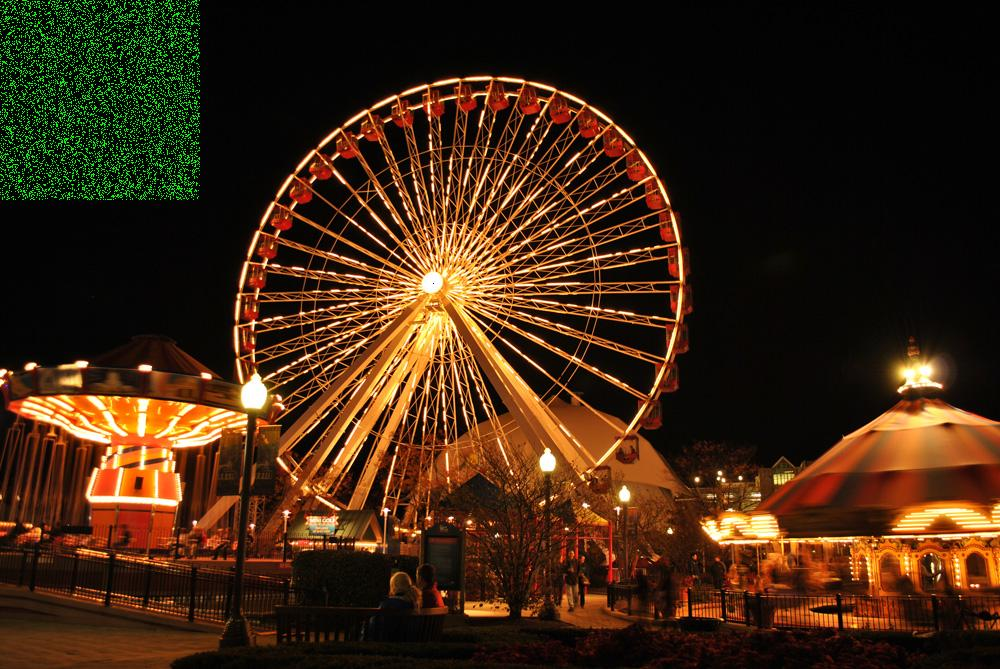
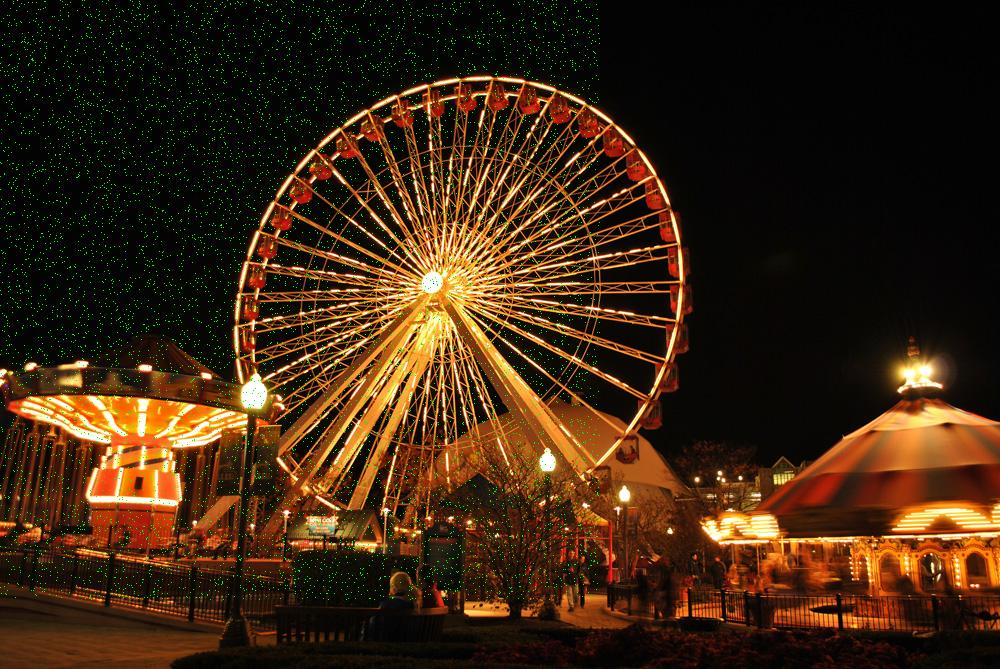
finished color labs

Changed region(s): [[0.0, 0.0897, 0.62, 0.8969], [0.0, 0.0, 0.217, 0.299]]

diff --git a/ColorLabs17/ColorLab.java b/ColorLabs17/ColorLab.java
@@ -1,0 +1,104 @@
+
+/**
+ * Write a description of class ColorLab here.
+ *
+ * @author (your name)
+ * @version (a version number or a date)
+ */
+import java.awt.*; //imports color class in awt library
+import java.util.*;
+import java.util.List; // resolves problem with java.awt.List and java.util.List
+//give range to change an object
+//either lighten or darken
+public class ColorLab
+{
+    public static void main(String[] args){
+        Picture p = new Picture("images\\beach.jpg");
+        Picture p1 = new Picture("images\\beach.jpg");
+        Picture p2 = new Picture("images\\beach.jpg");
+        Picture p3 = new Picture("images\\beach.jpg");
+        Picture p4 = new Picture("images\\beach.jpg");
+        
+        p.explore();
+        
+        //adjust--------------------------------------------------
+        Pixel[] pixels;
+        pixels = p1.getPixels();
+        int red,blue,green;
+        for (Pixel spot1 : pixels) {
+            red = spot1.getRed();
+            red = (int)(red*.25);
+            spot1.setRed(red);
+            blue = spot1.getBlue();
+            blue = (int)(blue*Math.random());
+            spot1.setBlue(blue);
+        
+            green = spot1.getGreen();
+            green = (int)(green*Math.random());
+            spot1.setGreen(green);
+        }
+        p1.explore();
+        
+        //negate--------------------------------------------------
+        Pixel[] pixels1;
+        pixels1 = p2.getPixels();
+        for (Pixel spot1 : pixels1) {
+            red = spot1.getRed();
+            red = (int)(255-red);
+            spot1.setRed(red);
+            
+            blue = spot1.getBlue();
+            blue = (int)(255-blue);
+            spot1.setBlue(blue);
+        
+            green = spot1.getGreen();
+            green = (int)(255-green);
+            spot1.setGreen(green);
+        }
+        p2.explore();
+        
+        //grayscale--------------------------------------------------
+        Pixel[] pixels2;
+        pixels2= p3.getPixels();
+        for (Pixel spot1 : pixels2) {
+            int avg = (int)(spot1.getAverage());
+            spot1.setRed(avg);
+            spot1.setBlue(avg);
+            spot1.setGreen(avg);
+        }
+        p3.explore();
+        
+        //lighten--------------------------------------------------
+        Pixel[] pixels3;
+        pixels3= p4.getPixels();
+        for (Pixel spot1 : pixels3) {
+            red = spot1.getRed();
+            red = (int)(2*red);
+            spot1.setRed(red);
+            
+            blue = spot1.getBlue();
+            blue = (int)(2*blue);
+            spot1.setBlue(blue);
+        
+            green = spot1.getGreen();
+            green = (int)(2*green);
+            spot1.setGreen(green);
+        }
+        p4.explore();
+        
+        //change sky--------------------------------------------------
+        Pixel[] pixels4;
+        pixels4= p.getPixels();
+        Color newColor = new Color(250,128,114);//salmon
+        for (Pixel spot1 : pixels4) {
+            red = spot1.getRed();
+            blue = spot1.getBlue();
+            green = spot1.getGreen();
+            
+            if (red>140 && red<180 && green<220 &&green>140 && blue>200 &&blue<235){
+                spot1.setColor(newColor);
+            }
+        }
+        p.explore();
+    }
+}

diff --git a/ColorLabs17/TestPicture17.java b/ColorLabs17/TestPicture17.java
@@ -36,12 +36,15 @@ public class TestPicture17
 
      //apic.explore(); //DISPLAYS THE PICTURE ------------------------
      ferris1.explore();
-     //moto.explore();
+     moto.explore();
      
      //makes an array of pixels ----have to do for every picture
      Pixel[] pixels;
      //gets pixels from picture and assigns to pixels array
      pixels = ferris1.getPixels();
+     
+     Pixel[] mpixels;
+     mpixels = moto.getPixels();
     
      //how many pixels or how large array ------- not tested on arrays
     System.out.println("This is a large array"+pixels.length  );
@@ -56,6 +59,7 @@ public class TestPicture17
     Pixel spot = ferris1.getPixel(100,100);
     Pixel spot2 = ferris1.getPixel(433,283);
     Pixel ferr17 = pixels[17];
+    
     ferr17.setGreen(160);
     ferr17.setBlue(200);
     ferr17.setRed(240);//MUST explore again to see it
@@ -71,7 +75,7 @@ public class TestPicture17
     System.out.println(spot);
     
     for (int i = 0; i < 10000; i++){
-        Pixel yuck = ferris1.getPixel((int)(Math.random()*200), (int)(Math.random()*200));
+        Pixel yuck = ferris1.getPixel((int)(Math.random()*600), (int)(Math.random()*600));
         yuck.setColor(Color.green);
     }
     ferris1.explore();
@@ -81,14 +85,29 @@ public class TestPicture17
     pixels[500034].setColor(Color.blue);
 
     ferris1.explore();
-/*
-   // loop to access indexes of array or collection
-
+/**/
+   // FOR EACH loop to access indexes of array or collection----------------------
+    int red;
+    int blue,green;
     //for each loop spot  is a ?
-    for (Pixel spot : pixels)
-    System.out.println( spot );
-
-
+    for (Pixel spot1 : mpixels) {
+        //System.out.println( spot1 );
+        red = spot1.getRed();
+        red = (int)(red*.25);
+        spot1.setRed(red);
+    }
+    moto.explore();
+    for (Pixel spot1 : mpixels) {
+        blue = spot1.getBlue();
+        blue = (int)(blue*Math.random());
+        spot1.setBlue(blue);
+        
+        green = spot1.getGreen();
+        green = (int)(green*Math.random());
+        spot1.setGreen(green);
+    }
+    
+    moto.explore();
    
  /**/
 
